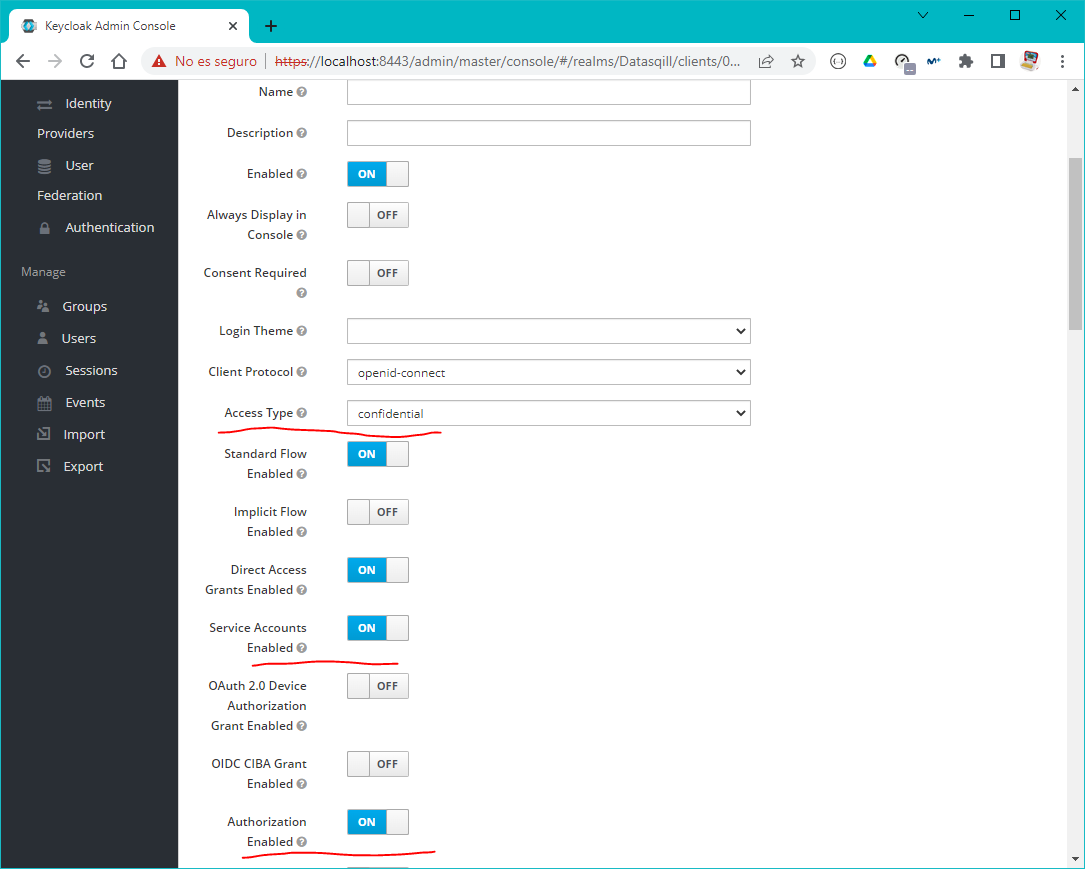
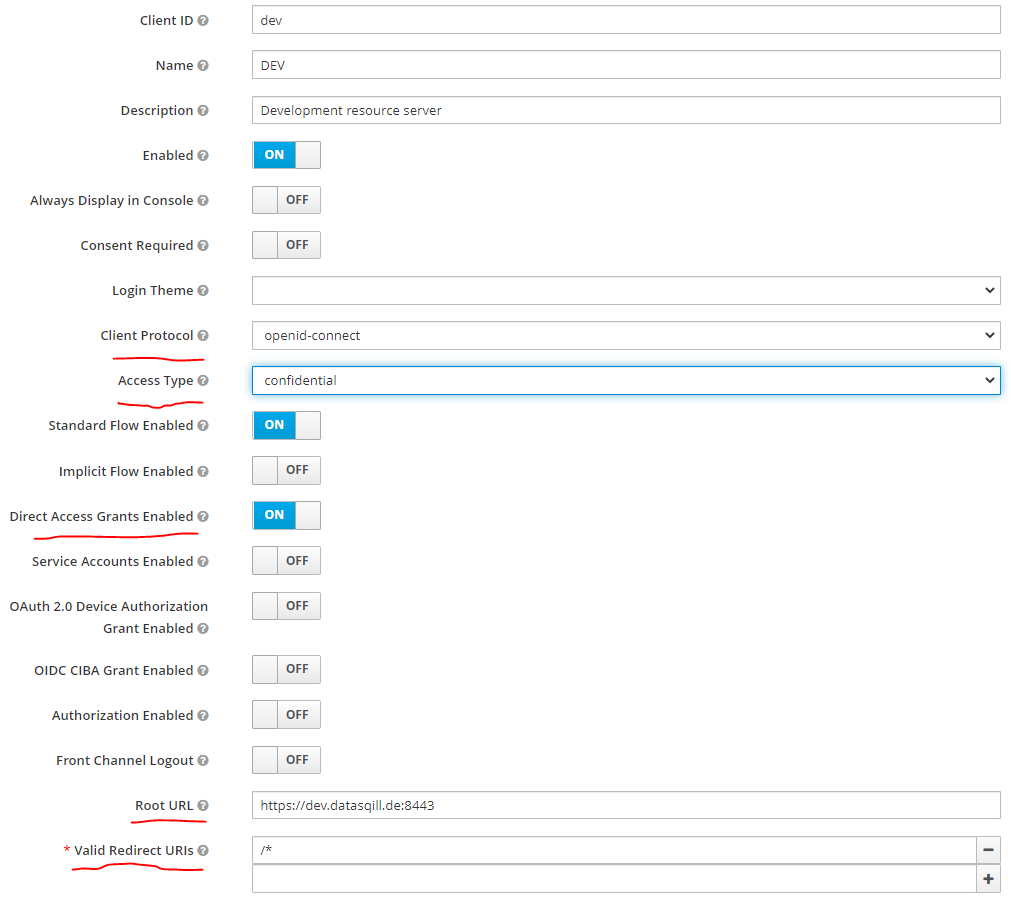
U several improvements and fixes

Changed region(s): [[0.0, 0.0, 1.0, 1.0], [0.9812, 0.87, 1.0, 0.901]]

diff --git a/x509-client-auth.md b/x509-client-auth.md
@@ -24,7 +24,7 @@ https-key-store-password=*****
 
 ### Enabling mutual TLS (mTLS)
 
-KC also need a truststore to store certificates to verify clients that are communicating with KC, required to enable X.509 client authentication:
+KC also needs a truststore to store certificates to verify clients, required to enable X.509 client authentication:
 
 ```properties
 # Enabling mutual TLS
@@ -39,51 +39,51 @@ https-trust-store-password=*****
 
 In our case, the truststore only contains the CA certificate, because it is the root of all the certificates that we want to consider as valid. It is also possible to add each and every one of the client certificates that we want to validate (e.g., if clients use self-signed certificates), but it's not what we want.
 
-## Administrator console
+## Administration console
 
 After you made changes in the configuration file and run KC, then you have to manage it by accessing through a browser:
 
-![](assets/administrator-console.png)
+![Administration Console](assets/administration-console.png)
 
 Then click on **Administration Console**:
 
-![](assets/login.png)
+![Login](assets/login.png)
 
 Enter administrator credentials (these credentials are set the first time KC is run) and you will be logged in:
 
-![](assets/logged-in.png)
+![Logged in](assets/logged-in.png)
 
 #### Create a realm
 
 On the top-left corner, click on **Master > Add realm**:
 
-![](assets/create-realm.png)
+![Create realm](assets/create-realm.png)
 
 Enter a name for the new realm (e.g.: `datasqill`, better in lowercase) and click on **Create**:
 
-![](assets/set-new-realm-name.png)
+![Set new realm name](assets/set-new-realm-name.png)
 
 > It is possible to import all realm configuration from a JSON file with the **Import** option.
 
-![](assets/realm-created.png)
+![Realm created](assets/realm-created.png)
 
 And now we have a new realm called `datasqill`. The default configuration in this tab is valid for our purposes. As you can see, by default our new realm supports OpenID Connect and SAML, despite we need only the first one.
 
-#### Set private key for signing issued JWTs
+#### Set private key for signing JWTs
 
 Go to **Realm Settings > Keys**:
 
-![](assets/realm-keys.png)
+![Realm keys](assets/realm-keys.png)
 
 Click on **Providers** option under **Keys** tab, and choose `java-keystore"` on the **Add keystore...** dropdown list:
 
-![](assets/add-keystore.png)
+![Add keystore](assets/add-keystore.png)
 
 And then, fill the form as follows an click on **Save**:
 
-![](assets/fill-new-keystore-data.png) 
+![Fill in new keystore data](assets/fill-new-keystore-data.png) 
 
-- **Priority**: if there is more than one private key for signing tokens, it will choose the valid key that has the highest priority (e.g.: 200, to make it higher to KC's default private keys).
+- **Priority**: if there is more than one private key for signing tokens, it will choose the valid (not expired) key with the highest priority (e.g.: 200, to make it higher than KC's default keys).
 
 - **Algorithm**: alg. used when signing (e.g. RSA256)
 
@@ -95,45 +95,59 @@ And then, fill the form as follows an click on **Save**:
 
 - **Key Password**: password of the key.
 
-- **Key use**: "sig" for singing tokens ("enc" would be for encryption).
+- **Key use**: "sig" for singing tokens ("enc" for encryption).
 
 Then, we can see our new siging key active and in first position:
 
-![](C:\Users\fvarrui\softquadrat\keycloak\docs\assets\new-siging-key.png)
+![New signing key](assets/new-siging-key.png)
 
-#### Setup token validity
+#### Set up token validity
 
 To configure the validity time and when a token expires, we must go to **Realm Settings > Tokens** tab:
 
-![](assets/setup-issued-tokens.png)
+![Set up issued tokens](assets/setup-issued-tokens.png)
+
+>  By default, access tokens are valid for 5 minutes.
 
 #### Create a client
 
-Clients are the resource servers and we must configure at least one to be able to authenticate and authorize users:
+Clients are the resource servers and we must configure at least one to be able to authenticate and authorize users.
 
 Go to **Clients** section on the left panel and click on **Create** under **Lookup** tab:
 
-![](assets/create-client.png)
+![Create client](assets/create-client.png)
 
-Introduce a **Client ID** (e.g. `transformation`), which is needed when the user application request a token, set `openid-connect` as **Client Porotocol** (the alternative is `saml`), and finally click on **Save**:
+Enter a **Client ID** (e.g. `dev`), which is needed when the user application request a token, set `openid-connect` as **Client Porotocol** (the alternative is `saml`), and finally click on **Save**:
 
-![](assets/set-new-client-id.png)
+![Set new client ID](assets/set-new-client-id.png)
 
-Then, in **Settings** tab, you have to set at least one **Valid Redirect URI** using the auth server URL (e.g.), set **Access Type** to `confidential` and activate **Authorization Enabled** (this will automatically activate **Service Accounts Enabled**):
+Then, in the **Settings** tab, you have to set at least one **Valid Redirect URI** with the resource server URL and set **Access Type** to `confidential` (clients require credentials to log in), and click on **Save** again:
 
-![](assets/new-client-settings.png)
+![New client settings](assets/new-client-settings.png)
 
-As we set our **Access Type** to `confidential`, then we must specify how is the user identified.
+As we set our **Access Type** to `confidential`, then we must specify how the user is identified.
+
+Finally, under **Credentials** tab, we must indicate that the user's credentials to get an access token are extracted  from the certificate:
+
+![client credentials](assets/client-credentials.png)
+
+- **Client Authenticator**: authenticator used to authenticate clients.
+
+- **Subject DN**: regular expression for validating Subject DN.
+
+- **Allow Regex Pattern Comparison**: the Subject DN from given client certificate should match regular expression specified by **Subject DN** property.
 
 ##### Disable Refresh Tokens
 
-It is possible to disable the use of a **Refresh Token** when setting up the client. Refresh tokens can be used by applications to request a new access token without the user intervention.
+It is possible to disable the use of a **Refresh Token** when setting up the client. Refresh tokens can be used by applications to request a new access token without the user intervention. 
+
+> In our case, as we are using certificates for authentication configured in the user application, don't need refresh tokens.
 
 Go to the section **OpenID Connect Compatibility Modes** and uncheck **Use refresh Tokens**:
 
-![](assets/disable-refresh-tokens.png)
+![Disable refresh tokens](assets/disable-refresh-tokens.png)
 
-#### Setup the authentication flow for X.509 certificate authentication
+#### Set up a flow for X.509 certificate authentication
 
 Flows are sequences of steps to authenticate users in KC (or achieve any action related with authentication), and we can create our own custom flows. They can be applied to different user interactions with KC (connecting via a web browser, resetting credentials, direct access to its REST API, ...).
 
@@ -171,9 +185,9 @@ Now, we have to use our new custom flow to enable direct grant access to the KC 
 
 ![](assets/direct-grant-flow-x509.png)
 
-That's all!
 
-Remember that your users have to exist in the KC user database or in any of the federated (Active Directory, LDAP) or custom (Service Provider Interface module) user identitify providers.
+
+Remember that your users have to exist in the KC user database or in any of the federated (Active Directory, LDAP) or custom (Service Provider Interface module) user identity providers.
 
 # References
 

diff --git a/custom-user-storage-provider.md b/custom-user-storage-provider.md
@@ -1,0 +1,3 @@
+# Custom user storage provider
+
+[TODO]
